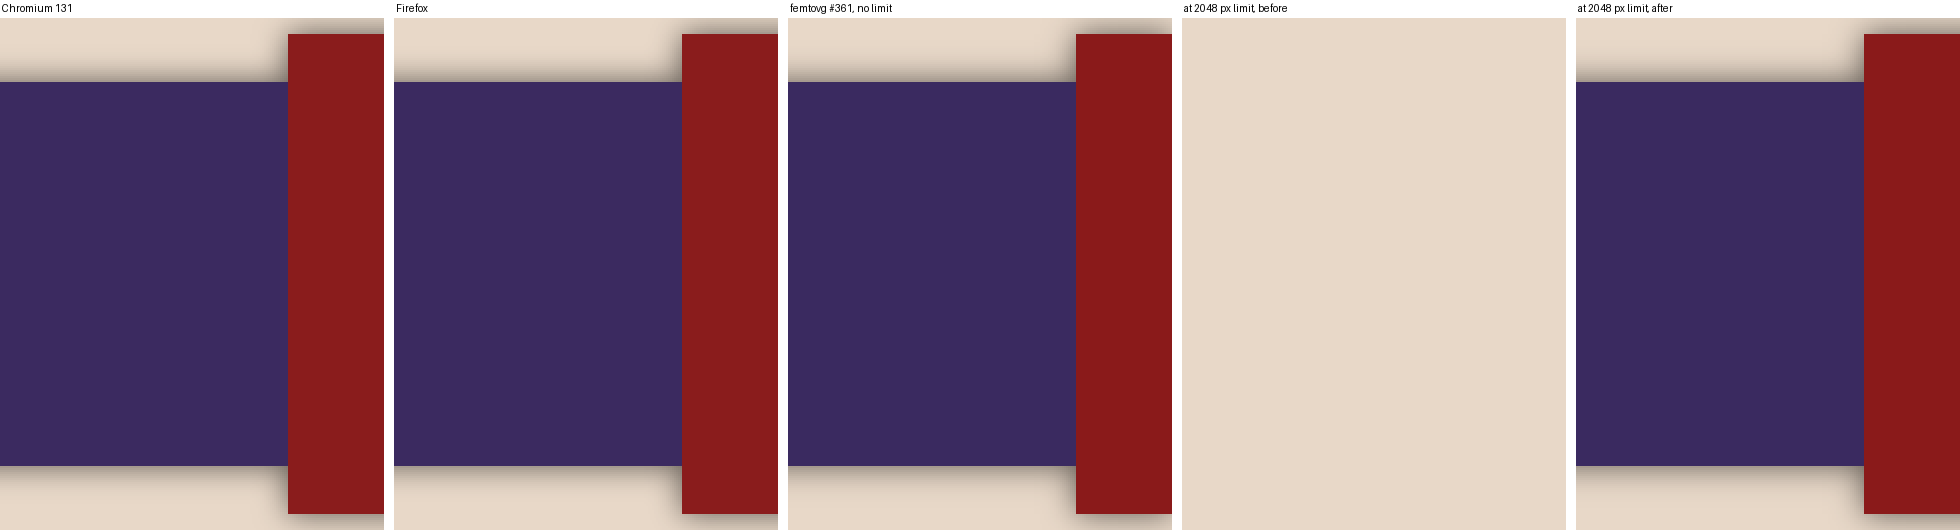
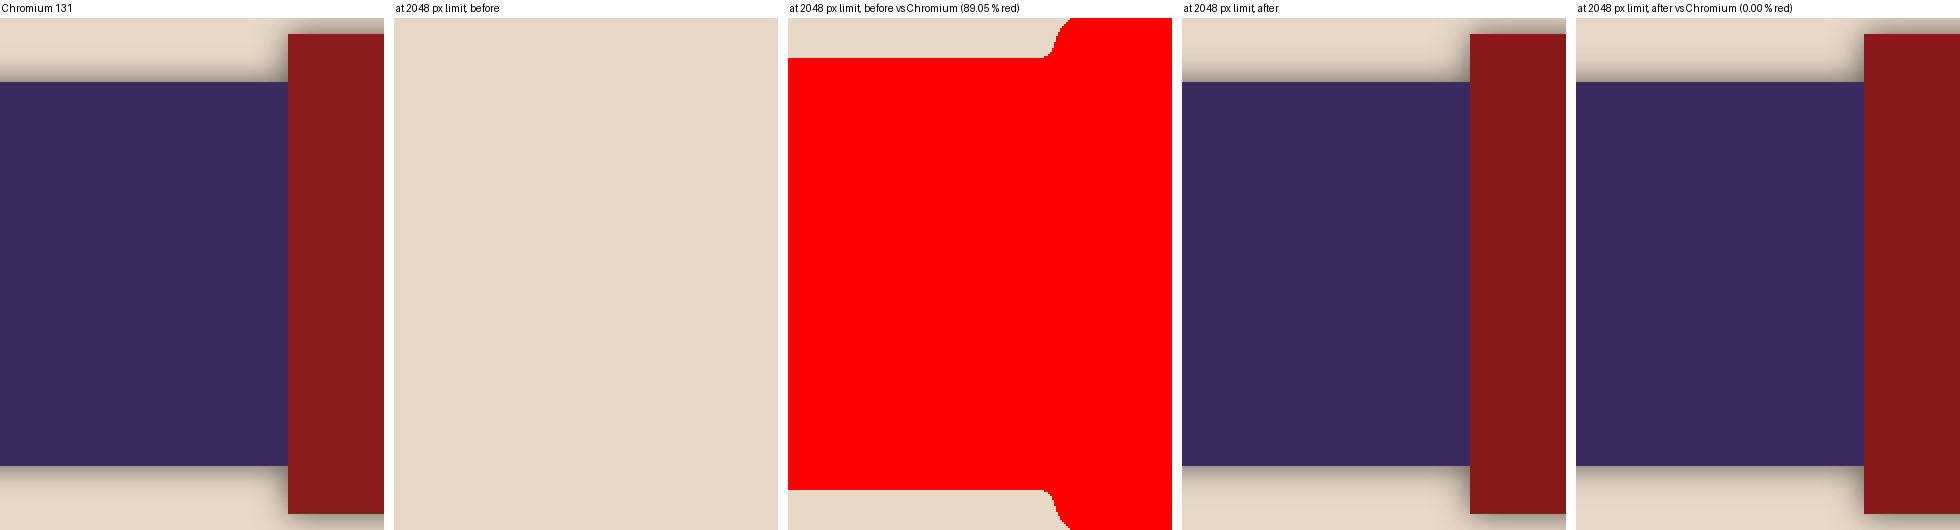
harness: pressure sheets with red diffs against Chromium

diff --git a/harness/diffsheet.py b/harness/diffsheet.py
@@ -1,0 +1,28 @@
+#!/usr/bin/env python3
+"""Evidence sheet with red diffs: diffsheet.py OUT.png REF.png 'label=path' ... [--crop x0,y0,x1,y1] [--zoom N] [--thr 8]
+The first panel is the reference; every other panel is followed by its diff against it (pixels beyond thr/255 in red)."""
+import sys
+import numpy as np
+from PIL import Image, ImageDraw
+args = sys.argv[1:]; out = args.pop(0); ref_path = args.pop(0); crop = None; zoom = 1; thr = 8
+for flag, cast in (('--crop', lambda v: tuple(int(x) for x in v.split(','))), ('--zoom', int), ('--thr', int)):
+    while flag in args:
+        i = args.index(flag); val = cast(args[i + 1]); del args[i:i + 2]
+        crop, zoom, thr = (val, zoom, thr) if flag == '--crop' else (crop, val, thr) if flag == '--zoom' else (crop, zoom, val)
+def load(p):
+    im = Image.open(p).convert('RGB')
+    return im.crop(crop) if crop else im
+ref = load(ref_path)
+cells = [('Chromium 131', ref)]
+for spec in args:
+    label, path = spec.split('=', 1); im = load(path)
+    d = np.abs(np.asarray(im, dtype=np.int16) - np.asarray(ref, dtype=np.int16)).max(axis=2) > thr
+    o = np.asarray(im).copy(); o[d] = [255, 0, 0]
+    cells.append((label, im)); cells.append((f'{label} vs Chromium ({100 * d.mean():.2f} % red)', Image.fromarray(o)))
+if zoom > 1:
+    cells = [(l, im.resize((im.width * zoom, im.height * zoom), Image.NEAREST)) for l, im in cells]
+w, h = cells[0][1].size
+sheet = Image.new('RGB', (len(cells) * (w + 10) - 10, h + 18), 'white'); d = ImageDraw.Draw(sheet)
+for i, (label, im) in enumerate(cells):
+    d.text((i * (w + 10) + 2, 2), label, fill='black'); sheet.paste(im, (i * (w + 10), 18))
+sheet.save(out); print(out, sheet.size)
